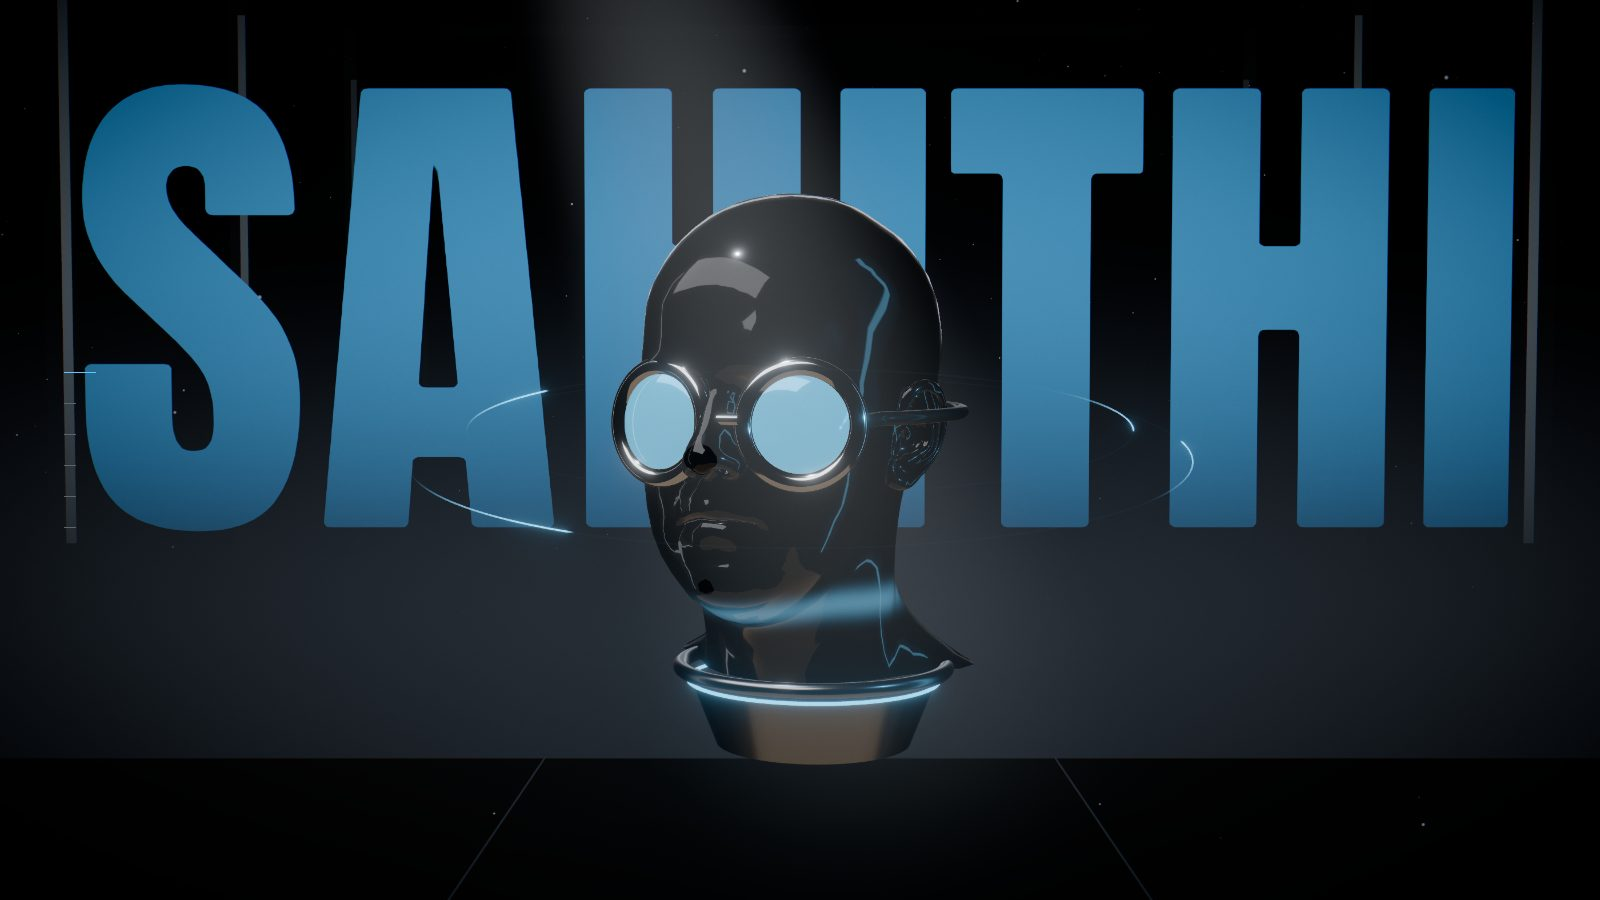
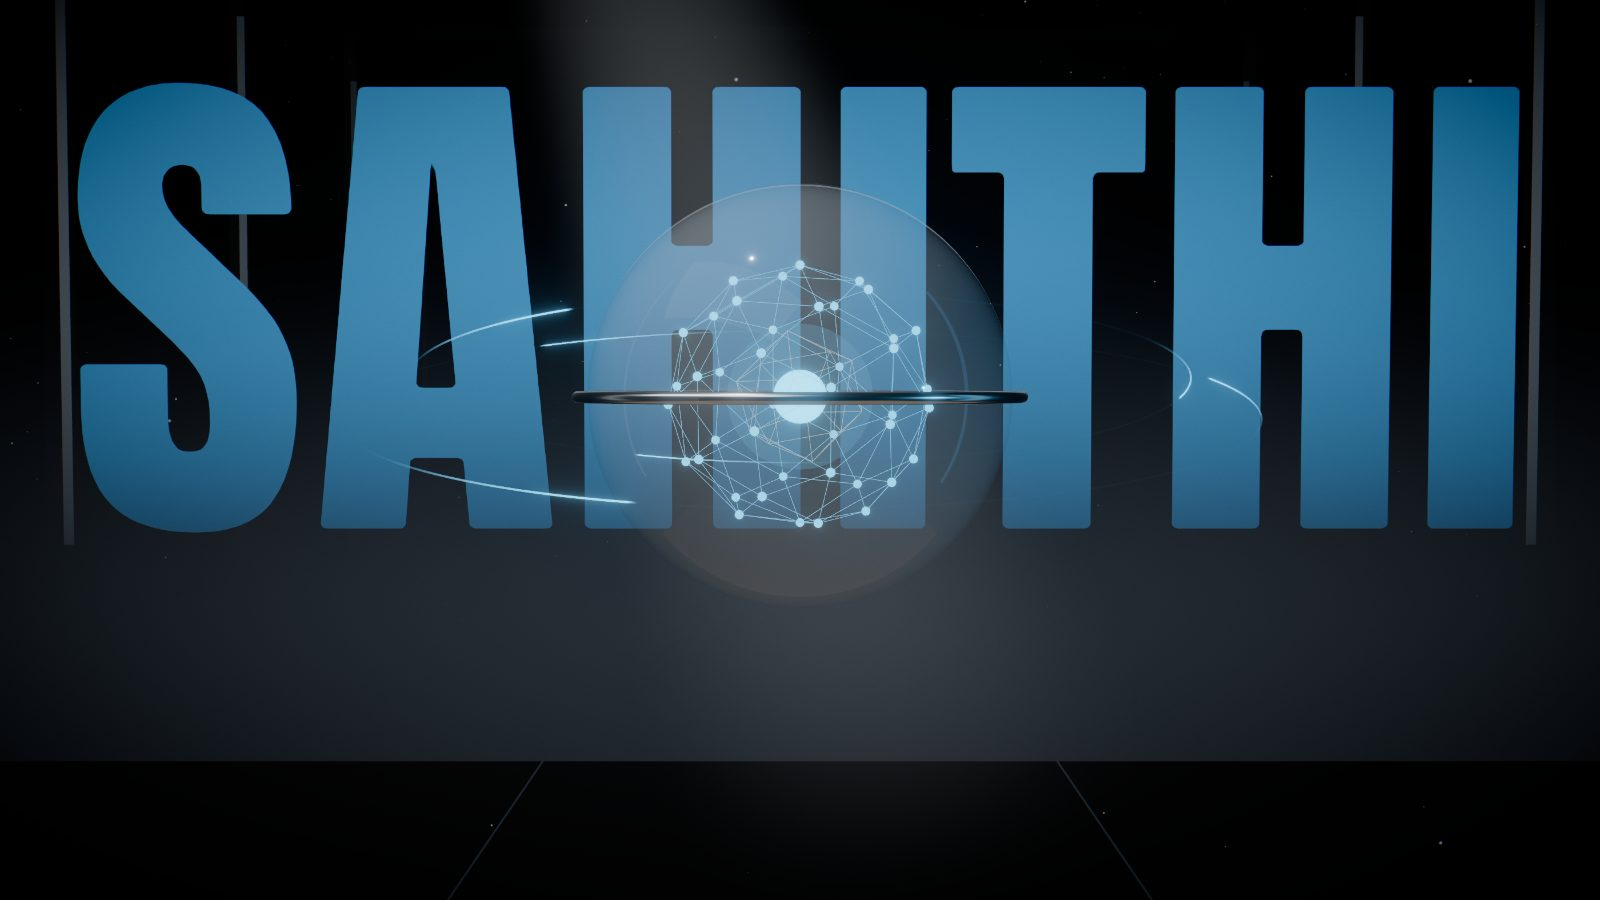
Replace the hero head with a glass AI core
A clear glass orb with a turning neural lattice, pulsing heart and
machined ring, still orbited by the data streams. The head scan now
only feeds the LAB-01 face-scan specimen; credits updated.

Claude-Session: https://claude.ai/code/session_01PWtkbJXmjKPTvvMNhz8pAV

diff --git a/src/scene/stations/CoreStation.tsx b/src/scene/stations/CoreStation.tsx
@@ -1,141 +1,108 @@
 import { useMemo, useRef } from 'react';
 import { useFrame } from '@react-three/fiber';
-import { SpotLight, Text, useGLTF } from '@react-three/drei';
+import { SpotLight, Text } from '@react-three/drei';
 import * as THREE from 'three';
 import antonUrl from '@fontsource/anton/files/anton-latin-400-normal.woff?url';
 import { frame } from '../../lib/store';
 import { ACCENT } from '../palette';
 import { ANCHORS } from '../rig';
 
-useGLTF.preload('/models/head.glb');
+/**
+ * The AI core: a clear glass orb holding a slowly turning neural lattice
+ * (icosphere edges with glowing nodes) around a softly pulsing heart.
+ */
+function AICore() {
+  const lattice = useRef<THREE.Group>(null);
+  const inner = useRef<THREE.Group>(null);
+  const heart = useRef<THREE.Mesh>(null);
+  const halo = useRef<THREE.MeshBasicMaterial>(null);
 
-// Measured from the scan (model units): eyes at x≈±0.78, y≈1.4; neck spans y −1…−2.
-const NECK_CUT = -1.55;
-const HEAD_SCALE = 0.62;
-
-/** Black-chrome physical material with a travelling ice-blue scan band injected into the shader. */
-function useAndroidMaterial() {
-  const uniforms = useMemo(() => ({ uTime: { value: 0 }, uAccent: { value: new THREE.Color(ACCENT) } }), []);
-  const material = useMemo(() => {
-    const m = new THREE.MeshPhysicalMaterial({
-      side: THREE.DoubleSide,
-      color: '#0a0c0f',
-      metalness: 1,
-      roughness: 0.2,
-      clearcoat: 1,
-      clearcoatRoughness: 0.06,
-      envMapIntensity: 1.25,
-    });
-    m.onBeforeCompile = (shader) => {
-      shader.defines = { ...(shader.defines ?? {}), NECK_CUT: NECK_CUT.toFixed(2) };
-      shader.uniforms.uTime = uniforms.uTime;
-      shader.uniforms.uAccent = uniforms.uAccent;
-      shader.vertexShader = shader.vertexShader
-        .replace('#include <common>', '#include <common>\nvarying vec3 vObjPos;')
-        .replace('#include <begin_vertex>', '#include <begin_vertex>\nvObjPos = position;');
-      // Cut the scan at the neck so it reads as a sculpted android head, not a bust.
-      shader.fragmentShader = shader.fragmentShader.replace(
-        'void main() {',
-        'void main() {\n  if (vObjPos.y < NECK_CUT) discard;',
-      );
-      shader.fragmentShader = shader.fragmentShader
-        .replace('#include <common>', '#include <common>\nuniform float uTime;\nuniform vec3 uAccent;\nvarying vec3 vObjPos;')
-        .replace(
-          '#include <emissivemap_fragment>',
-          `#include <emissivemap_fragment>
-          float scanY = mod(uTime * 1.1, 11.0) - 5.0;
-          float band = exp(-pow((vObjPos.y - scanY) * 7.0, 2.0));
-          totalEmissiveRadiance += uAccent * band * 0.35;`,
-        );
-    };
-    return m;
-  }, [uniforms]);
-  return { material, uniforms };
-}
-
-function Goggles() {
-  const glass = useMemo(
-    () =>
-      new THREE.MeshPhysicalMaterial({
-        color: ACCENT,
-        metalness: 0.2,
-        roughness: 0.04,
-        transmission: 0.35,
-        thickness: 0.3,
-        ior: 1.5,
-        iridescence: 0.9,
-        iridescenceIOR: 1.7,
-        iridescenceThicknessRange: [200, 600],
-        emissive: new THREE.Color(ACCENT),
-        emissiveIntensity: 0.9,
-        clearcoat: 1,
-        envMapIntensity: 2.2,
-      }),
-    [],
-  );
-  const chrome = useMemo(
-    () => new THREE.MeshPhysicalMaterial({ color: '#d5dade', metalness: 1, roughness: 0.1, clearcoat: 1 }),
-    [],
-  );
-  const rubber = useMemo(() => new THREE.MeshPhysicalMaterial({ color: '#08090a', metalness: 0.3, roughness: 0.55, clearcoat: 0.3 }), []);
-  const strap = useMemo(() => {
-    const gap = 0.9; // radians either side of the face
-    const pts: THREE.Vector3[] = [];
-    for (let i = 0; i <= 64; i++) {
-      const a = gap + (i / 64) * (Math.PI * 2 - gap * 2);
-      pts.push(new THREE.Vector3(Math.sin(a) * 1.9, 1.5, 0.15 + Math.cos(a) * 2.1));
+  const { edges, nodes, innerEdges } = useMemo(() => {
+    const outer = new THREE.IcosahedronGeometry(0.82, 1);
+    const pos = outer.getAttribute('position');
+    const seen = new Map<string, THREE.Vector3>();
+    for (let i = 0; i < pos.count; i++) {
+      const v = new THREE.Vector3().fromBufferAttribute(pos, i);
+      seen.set(v.toArray().map((n) => n.toFixed(3)).join(','), v);
     }
-    // Run the ends forward into the lens housings.
-    pts.unshift(new THREE.Vector3(1.38, 1.47, 1.86));
-    pts.push(new THREE.Vector3(-1.38, 1.47, 1.86));
-    return new THREE.TubeGeometry(new THREE.CatmullRomCurve3(pts), 96, 0.075, 10, false);
+    return {
+      edges: new THREE.EdgesGeometry(outer),
+      nodes: [...seen.values()],
+      innerEdges: new THREE.EdgesGeometry(new THREE.IcosahedronGeometry(0.42, 0)),
+    };
   }, []);
-  const lens = (x: number) => (
-    <group position={[x, 1.45, 1.98]} rotation={[-0.06, x > 0 ? 0.28 : -0.28, 0]}>
-      <mesh material={chrome}>
-        <torusGeometry args={[0.6, 0.1, 32, 96]} />
-      </mesh>
-      <mesh material={chrome} position-z={-0.12} rotation-x={Math.PI / 2}>
-        <cylinderGeometry args={[0.62, 0.66, 0.24, 64, 1, true]} />
-      </mesh>
-      <mesh material={glass} scale={[1, 1, 0.32]} position-z={-0.04}>
-        <sphereGeometry args={[0.56, 64, 32]} />
-      </mesh>
-    </group>
+
+  const mats = useMemo(
+    () => ({
+      // Thin clear shell: reflections and a fresnel rim without hiding the lattice inside.
+      glass: new THREE.MeshPhysicalMaterial({
+        color: '#dff1ff',
+        roughness: 0.04,
+        metalness: 0,
+        transparent: true,
+        opacity: 0.16,
+        depthWrite: false,
+        clearcoat: 1,
+        clearcoatRoughness: 0.03,
+        iridescence: 0.5,
+        iridescenceIOR: 1.3,
+        envMapIntensity: 2.4,
+        specularIntensity: 1,
+      }),
+      line: new THREE.LineBasicMaterial({ color: new THREE.Color(ACCENT).multiplyScalar(1.4), transparent: true, opacity: 0.8, toneMapped: false }),
+      lineSoft: new THREE.LineBasicMaterial({ color: '#dbe8f2', transparent: true, opacity: 0.6, toneMapped: false }),
+      node: new THREE.MeshBasicMaterial({ color: new THREE.Color(ACCENT).multiplyScalar(2.2), toneMapped: false }),
+      heart: new THREE.MeshBasicMaterial({ color: new THREE.Color(ACCENT).multiplyScalar(3), toneMapped: false }),
+      steel: new THREE.MeshPhysicalMaterial({ color: '#c9d0d6', metalness: 1, roughness: 0.18, clearcoat: 1 }),
+    }),
+    [],
   );
+
+  useFrame((state, dt) => {
+    const t = state.clock.elapsedTime;
+    if (lattice.current) {
+      lattice.current.rotation.y += dt * 0.12;
+      lattice.current.rotation.x = THREE.MathUtils.damp(lattice.current.rotation.x, 0.25 - frame.pointer.y * 0.3, 2, dt);
+      lattice.current.rotation.z = THREE.MathUtils.damp(lattice.current.rotation.z, -frame.pointer.x * 0.3, 2, dt);
+    }
+    if (inner.current) {
+      inner.current.rotation.y -= dt * 0.35;
+      inner.current.rotation.x += dt * 0.2;
+    }
+    const pulse = 1 + Math.sin(t * 1.6) * 0.08;
+    heart.current?.scale.setScalar(pulse);
+    if (halo.current) halo.current.opacity = 0.1 + Math.sin(t * 1.6) * 0.04;
+  });
+
   return (
     <group>
-      {lens(-0.8)}
-      {lens(0.8)}
-      <mesh material={chrome} position={[0, 1.5, 2.22]} rotation-z={Math.PI / 2}>
-        <cylinderGeometry args={[0.06, 0.06, 0.42, 16]} />
+      {/* Glass shell */}
+      <mesh material={mats.glass}>
+        <sphereGeometry args={[1.3, 96, 64]} />
       </mesh>
-      {/* Head strap: wraps the back of the head and meets the lenses at the temples */}
-      <mesh material={rubber} geometry={strap} />
-    </group>
-  );
-}
-
-/** Machined collar where the neck is cut. */
-function Collar() {
-  const steel = useMemo(
-    () => new THREE.MeshPhysicalMaterial({ color: '#9aa1a8', metalness: 1, roughness: 0.22, clearcoat: 0.6 }),
-    [],
-  );
-  const ring = useMemo(
-    () => new THREE.MeshStandardMaterial({ color: '#000', emissive: new THREE.Color(ACCENT), emissiveIntensity: 2.2, toneMapped: false }),
-    [],
-  );
-  return (
-    <group position={[0, NECK_CUT, -0.42]} scale={[1.06, 1, 1]}>
-      <mesh material={steel} rotation-x={Math.PI / 2}>
-        <torusGeometry args={[1.5, 0.09, 20, 96]} />
+      {/* Machined equator ring */}
+      <mesh material={mats.steel} rotation-x={Math.PI / 2}>
+        <torusGeometry args={[1.36, 0.035, 16, 160]} />
       </mesh>
-      <mesh material={ring} position-y={-0.16} rotation-x={Math.PI / 2}>
-        <torusGeometry args={[1.42, 0.022, 8, 128]} />
+      {/* Neural lattice */}
+      <group ref={lattice}>
+        <lineSegments geometry={edges} material={mats.line} />
+        {nodes.map((p, i) => (
+          <mesh key={i} position={p} material={mats.node}>
+            <sphereGeometry args={[0.028, 12, 8]} />
+          </mesh>
+        ))}
+        <group ref={inner}>
+          <lineSegments geometry={innerEdges} material={mats.lineSoft} />
+        </group>
+      </group>
+      {/* Heart */}
+      <mesh ref={heart} material={mats.heart}>
+        <sphereGeometry args={[0.16, 32, 16]} />
       </mesh>
-      <mesh material={steel} position-y={-0.55}>
-        <cylinderGeometry args={[1.38, 1.1, 0.75, 64, 1, true]} />
+      <mesh>
+        <sphereGeometry args={[0.45, 32, 16]} />
+        <meshBasicMaterial ref={halo} color={ACCENT} transparent opacity={0.1} depthWrite={false} toneMapped={false} />
       </mesh>
     </group>
   );
@@ -143,7 +110,6 @@ function Collar() {
 
 /** Thin orbital data streams with travelling light pulses. */
 function DataStreams() {
-  const mat = useRef<THREE.ShaderMaterial>(null);
   const rings = useMemo(
     () => [
       { r: 2.35, tilt: [Math.PI / 2 - 0.22, 0, 0.12], speed: 0.6, phase: 0 },
@@ -181,7 +147,7 @@ function DataStreams() {
   return (
     <group>
       {rings.map((r, i) => (
-        <mesh key={i} rotation={r.tilt as [number, number, number]} material={material} ref={i === 0 ? (mat as never) : undefined}>
+        <mesh key={i} rotation={r.tilt as [number, number, number]} material={material}>
           <torusGeometry args={[r.r, 0.005, 6, 256]} />
         </mesh>
       ))}
@@ -189,22 +155,12 @@ function DataStreams() {
   );
 }
 
+
 export function CoreStation({ tier }: { tier: 'high' | 'low' }) {
-  const { scene } = useGLTF('/models/head.glb');
-  const { material, uniforms } = useAndroidMaterial();
-  const head = useRef<THREE.Group>(null);
-  const spot = useRef<THREE.SpotLight>(null);
+  const core = useRef<THREE.Group>(null);
   const root = useRef<THREE.Group>(null);
   const word = useRef<THREE.Mesh>(null);
   const veil = useRef<THREE.ShaderMaterial>(null);
-
-  const geometry = useMemo(() => {
-    let g: THREE.BufferGeometry | null = null;
-    scene.traverse((o) => {
-      if ((o as THREE.Mesh).isMesh && !g) g = (o as THREE.Mesh).geometry;
-    });
-    return g as unknown as THREE.BufferGeometry;
-  }, [scene]);
 
   const target = useMemo(() => {
     const o = new THREE.Object3D();
@@ -212,18 +168,12 @@ export function CoreStation({ tier }: { tier: 'high' | 'low' }) {
     return o;
   }, []);
 
-  useFrame((state, dt) => {
-    uniforms.uTime.value += dt;
-    if (!head.current) return;
+  useFrame((state) => {
     const t = state.clock.elapsedTime;
-    const px = frame.pointer.x;
-    const py = frame.pointer.y;
-    head.current.rotation.y = THREE.MathUtils.damp(head.current.rotation.y, -0.38 + px * 0.42, 2.2, dt);
-    head.current.rotation.x = THREE.MathUtils.damp(head.current.rotation.x, -py * 0.16 + 0.03, 2.2, dt);
-    // As the camera departs, the wordmark dissolves and the head sinks into the floor.
+    // As the camera departs, the wordmark dissolves and the core sinks into the floor.
     const leave = THREE.MathUtils.smoothstep(frame.t, 0.04, 0.4);
-    head.current.position.y = Math.sin(t * 0.6) * 0.06 - leave * 6;
-    const wm = word.current?.material as THREE.Material & { opacity: number } | undefined;
+    if (core.current) core.current.position.y = 0.25 + Math.sin(t * 0.6) * 0.08 - leave * 6;
+    const wm = word.current?.material as (THREE.Material & { opacity: number }) | undefined;
     if (wm) {
       wm.transparent = true;
       wm.opacity = 1 - THREE.MathUtils.smoothstep(frame.t, 0.02, 0.22);
@@ -261,19 +211,14 @@ export function CoreStation({ tier }: { tier: 'high' | 'low' }) {
         />
       </mesh>
 
-      <group ref={head}>
-        <group scale={HEAD_SCALE} position-y={-1.2 * HEAD_SCALE}>
-          <mesh geometry={geometry} material={material} castShadow />
-          <Goggles />
-          <Collar />
-        </group>
+      <group ref={core} scale={1.15}>
+        <AICore />
+        <DataStreams />
       </group>
-      <DataStreams />
 
       <primitive object={target} />
       {tier === 'high' && (
         <SpotLight
-          ref={spot}
           position={[-2.5, 7.5, 2]}
           target={target}
           angle={0.42}

diff --git a/src/ui/sections/Contact.tsx b/src/ui/sections/Contact.tsx
@@ -104,7 +104,7 @@ export function Contact() {
         <footer className="mt-24 flex flex-col gap-3 border-t border-line pt-6 font-mono text-[10px] uppercase tracking-[0.18em] text-dim sm:flex-row sm:justify-between">
           <span>© {new Date().getFullYear()} {profile.fullName}</span>
           <span className="normal-case tracking-normal">
-            Head model based on the Lee Perry-Smith scan by{' '}
+            Face-scan specimen based on the Lee Perry-Smith scan by{' '}
             <a className="underline hover:text-bone" href="https://www.infinite-realities.net" target="_blank" rel="noopener noreferrer">
               Infinite Realities
             </a>{' '}

diff --git a/index.html b/index.html
@@ -12,7 +12,6 @@
     <meta property="og:type" content="website" />
     <meta property="og:image" content="/poster.jpg" />
     <meta name="twitter:card" content="summary_large_image" />
-    <link rel="preload" href="/models/head.glb" as="fetch" type="model/gltf-binary" crossorigin />
   </head>
   <body>
     <noscript>

diff --git a/README.md b/README.md
@@ -4,7 +4,7 @@ An interactive 3D portfolio: a single WebGL "research facility" the camera flies
 
 | # | Station | 3D | Content |
 |---|---|---|---|
-| 01 | Core | Black-chrome android head, glass goggles, scan band, orbital data streams, editorial wordmark | Name, role, tagline, stats |
+| 01 | Core | Glass AI core with a turning neural lattice and pulsing heart, orbital data streams, editorial wordmark | Name, role, tagline, stats |
 | 02 | Identity | Layered neural network; layers light up as you read | Bio, education, focus areas |
 | 03 | Galaxy | Clickable constellation of skills grouped into systems | Each skill with the project/role/course that backs it |
 | 04 | Laboratory | Pedestal under a volumetric spotlight, one specimen per project | Six featured projects + full dossiers, GitHub-synced archive |
@@ -59,4 +59,4 @@ Public repositories under `VITE_GITHUB_USERNAME` (default `sahithi-manda`) appea
 
 ## Credits
 
-The android head is based on the Lee Perry-Smith head scan by [Infinite Realities](https://www.infinite-realities.net), licensed [CC BY 3.0](https://creativecommons.org/licenses/by/3.0/), restyled (neck cut, materials, goggles and collar added in code).
+The face-scan point cloud in the Laboratory (LAB-01) uses the Lee Perry-Smith head scan by [Infinite Realities](https://www.infinite-realities.net), licensed [CC BY 3.0](https://creativecommons.org/licenses/by/3.0/).
